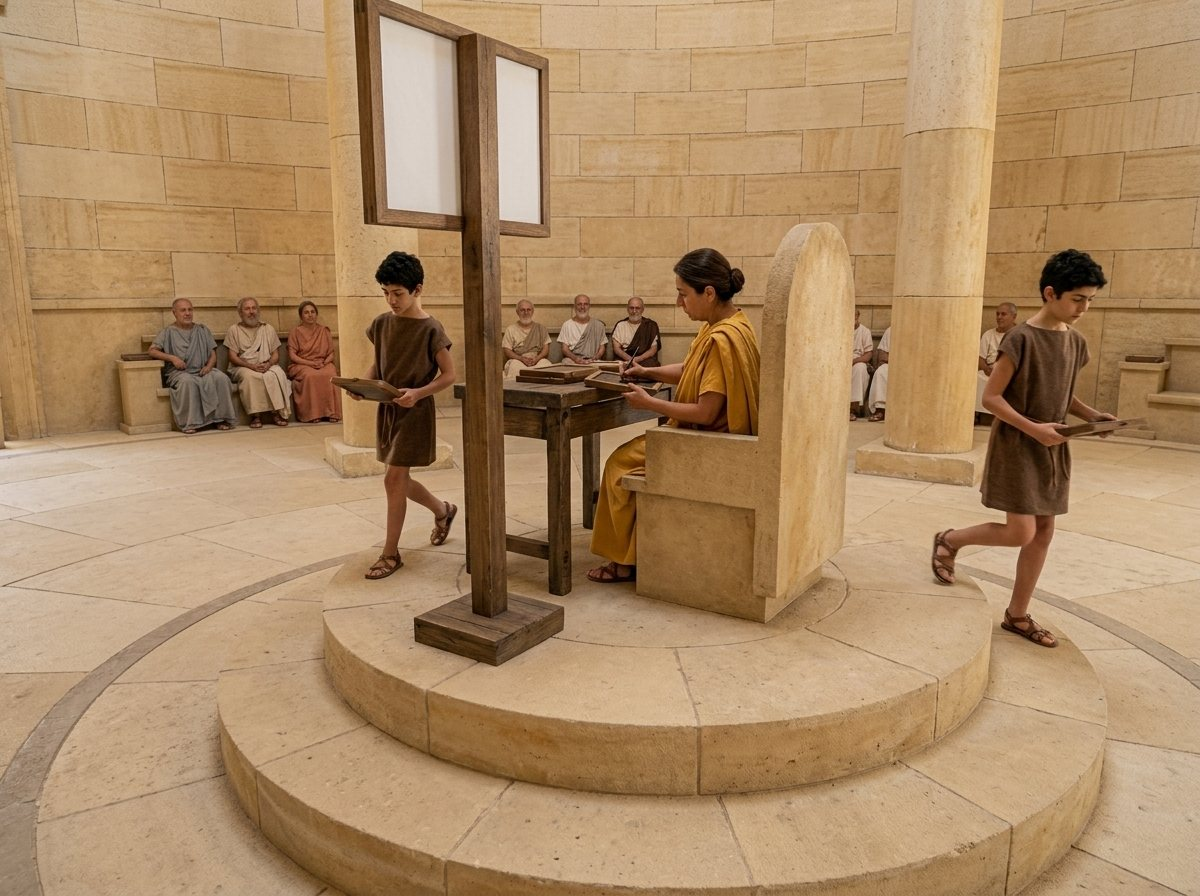
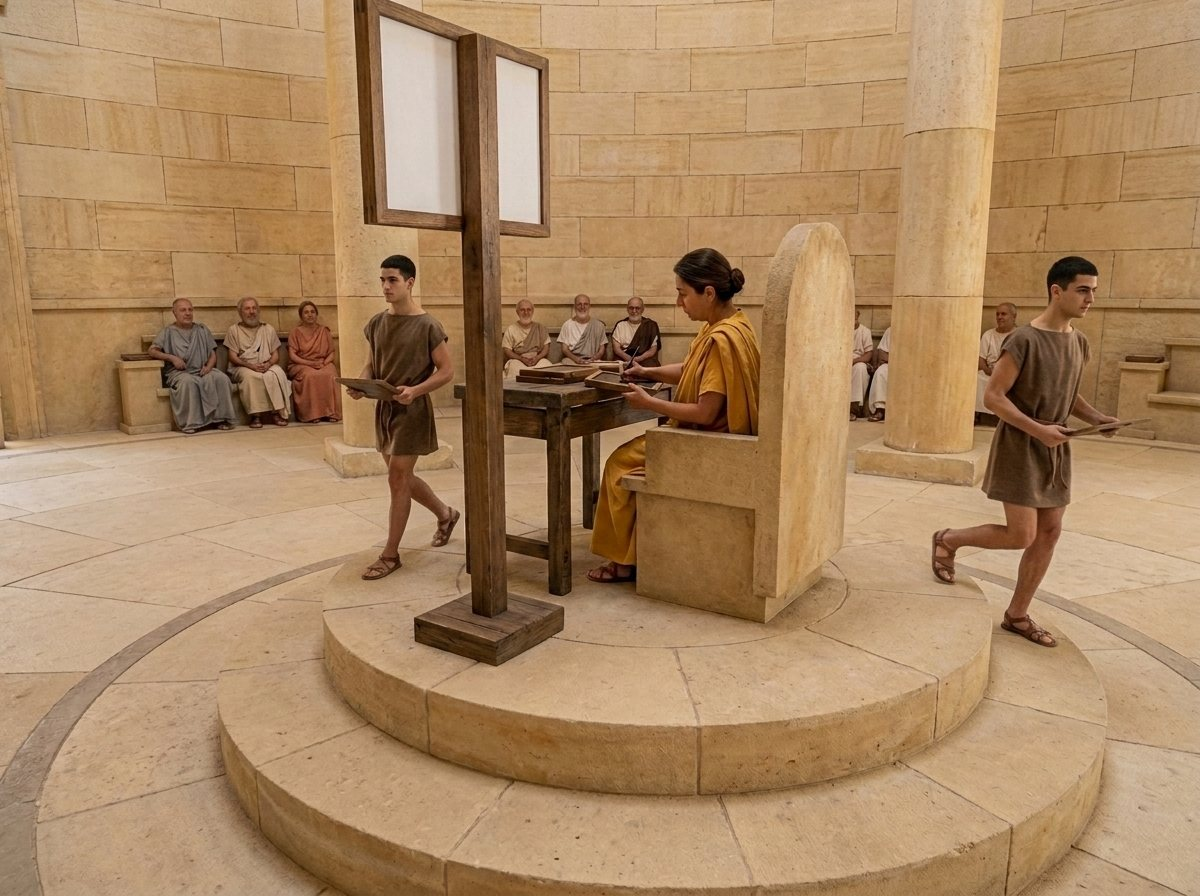
Schedia's runners are young men, not boys: the reference sheet, the four runner pictures of One Leader at a Time, and the wording in the settings, reality checks, place page, prompts and alt texts
Claude-Session: https://claude.ai/code/session_01YEoRcgSgrPNbMAvnxGtMh5

Changed region(s): [[0.7708, 0.2812, 0.9558, 0.6875], [0.2775, 0.2812, 0.4008, 0.6562], [0.8633, 0.6875, 0.8942, 0.7188]]

diff --git a/books/one-leader-at-a-time/index.html b/books/one-leader-at-a-time/index.html
@@ -326,7 +326,7 @@ table.terms2 td:first-child{width:40%;font-weight:700}
     </div>
     <div class="pop" data-auto>
       <div class="leaf">
-        <div class="photo tilt-r" data-depth="14"><img src="img/cover.jpg" alt="Inside the Tholos of Schedia: a figure in saffron sits at the desk on the round podium beside a board on its post, two runner boys set off across the floor, and benches line the wall either side of the one door, open to the bay"></div>
+        <div class="photo tilt-r" data-depth="14"><img src="img/cover.jpg" alt="Inside the Tholos of Schedia: a figure in saffron sits at the desk on the round podium beside a board on its post, two young runners set off across the floor, and benches line the wall either side of the one door, open to the bay"></div>
         <div class="fold-shadow"></div>
       </div>
     </div>
@@ -408,7 +408,7 @@ table.terms2 td:first-child{width:40%;font-weight:700}
         <p class="lede">The podium stands at the centre of the Tholos, and one legislator at a time holds it: the <b>holder</b>. Only the holder adds lines to the law.</p>
         <p>The podium is no pulpit. Nobody can be heard from it either. It is an office: the holder writes each line at the desk, gives it the next number, and has it carried to every bench. The others copy what the holder sends them, and do nothing else with the law.</p>
       </div>
-      <div class="pop fromright"><div class="leaf"><div class="photo tilt-r" style="aspect-ratio:4/3"><img src="img/o02-podium.jpg" alt="At the podium a figure in saffron writes at the desk beside a board on its post while two runner boys set off in different directions towards benches where council members wait" loading="lazy"></div></div></div>
+      <div class="pop fromright"><div class="leaf"><div class="photo tilt-r" style="aspect-ratio:4/3"><img src="img/o02-podium.jpg" alt="At the podium a figure in saffron writes at the desk beside a board on its post while two young runners set off in different directions towards benches where council members wait" loading="lazy"></div></div></div>
     </div>
     <div class="cards3">
       <div class="pop"><div class="leaf paper card3"><div class="body"><div class="num">The podium's work</div><h3>Writing</h3><p>The holder numbers each line in turn and gives it to the runners.</p></div></div></div>
@@ -491,7 +491,7 @@ table.terms2 td:first-child{width:40%;font-weight:700}
         <p>A legislator who stops hearing from someone, or hears again from someone who was away, or has just come back from home, calls for a new board. Whoever does so is the <b>caller</b>. A silent legislator may have gone home, or stepped out, or their notes may be slow. The caller cannot tell, and does not need to: a board is called either way.</p>
         <p>The caller takes a count higher than any board they have seen, adds their own name, and sends every legislator an <b>invitation</b>. A legislator invited to a board higher than any they have seen accepts, stops working under the old board, and answers in one of two ways.</p>
       </div>
-      <div class="pop fromright"><div class="leaf"><div class="photo tilt-r" style="aspect-ratio:4/3"><img src="img/o03-caller.jpg" alt="A figure in green sits writing on small wax tablets with a blank board propped beside him and two runner boys waiting; across the floor the podium's seat and desk stand empty" loading="lazy"></div></div></div>
+      <div class="pop fromright"><div class="leaf"><div class="photo tilt-r" style="aspect-ratio:4/3"><img src="img/o03-caller.jpg" alt="A figure in green sits writing on small wax tablets with a blank board propped beside him and two young runners waiting; across the floor the podium's seat and desk stand empty" loading="lazy"></div></div></div>
     </div>
     <div class="cards3" style="grid-template-columns:repeat(2,minmax(0,1fr));max-width:760px">
       <div class="pop"><div class="leaf paper card3"><div class="body"><div class="num">The two answers</div><h3>With tablets</h3><p><i>I hold up to board 6, line 40</i>, and whether they held the podium under board 6.</p></div></div></div>
@@ -598,7 +598,7 @@ table.terms2 td:first-child{width:40%;font-weight:700}
   <svg class="tear" viewBox="0 0 1200 26" preserveAspectRatio="none" style="--prev:#f6eed6"><path d="M0 0h1200v9l-60 9-80-9-70 10-100-9-90 11-80-10-110 9-100-8-80 10-90-9-90 11z"/></svg>
   <div class="wrap">
     <div class="two" style="gap:clamp(20px,4vw,50px);align-items:center">
-      <div class="pop fromleft"><div class="leaf"><div class="photo tilt-l" style="aspect-ratio:4/3"><img src="img/o04-porch.jpg" alt="In the Tholos's porch a figure in blue-grey at a small stand hands a wax tablet to a runner boy; through the doorway beyond, a figure in saffron sits at the podium's desk with a board on its post" loading="lazy"></div></div></div>
+      <div class="pop fromleft"><div class="leaf"><div class="photo tilt-l" style="aspect-ratio:4/3"><img src="img/o04-porch.jpg" alt="In the Tholos's porch a figure in blue-grey at a small stand hands a wax tablet to a young runner; through the doorway beyond, a figure in saffron sits at the podium's desk with a board on its post" loading="lazy"></div></div></div>
       <div>
         <div class="kicker">Two who believe they hold the podium</div>
         <h2>The holder who has not noticed</h2>

diff --git a/places/schedia/index.html b/places/schedia/index.html
@@ -166,7 +166,7 @@
         <tr><td><i>Building.</i> <span class="term">the Tholos, a round hall with a podium</span></td><td>The Athenian Tholos housed the committee on duty, with one member presiding for a day and a night chosen by lot (Aristotle, Constitution of Athens 44). The podium is the setting's version of that president's place; the real president was chosen by lot, not by a numbered board.</td><td class="c">Close</td></tr>
         <tr><td><i>Character.</i> <span class="term">a council of five, a majority of three</span></td><td>Sparta had five ephors, elected each year†. Councils and colleges of other sizes were common.</td><td class="c">Loose</td></tr>
         <tr><td><i>Character.</i> <span class="term">the five told apart by colour; plain Greek names for the seats</span></td><td>Kleon, Theron and Melissa are ordinary Greek names (Kleon was an Athenian politician, Theron a tyrant of Akragas)†. Colours only tell the figures apart.</td><td class="c">Close</td></tr>
-        <tr><td><i>Character.</i> <span class="term">boys who run the lines from the podium</span></td><td>Heralds and runners again†.</td><td class="c">Close</td></tr>
+        <tr><td><i>Character.</i> <span class="term">young men who run the lines from the podium</span></td><td>Heralds and runners again†.</td><td class="c">Close</td></tr>
         <tr><td><i>Prop.</i> <span class="term">wax tablets smoothed when their holder goes home</span></td><td>Wax tablets were the Greek notebook; the stylus's flat end smooths them. Plato uses a wax block as his image of memory (Theaetetus 191c–d)†.</td><td class="c">Close</td></tr>
         <tr><td><i>Prop.</i> <span class="term">a bench's name cut into its stone</span></td><td>Seats in the Theatre of Dionysus at Athens were inscribed with the names of the priests and officials who held them†.</td><td class="c">Close</td></tr>
         <tr><td><i>Practice.</i> <span class="term">a higher board raised when the podium falls silent</span></td><td>Athens renewed its presidency daily by lot. A new holder taking a higher board number is the setting's rule, not a Greek one.</td><td class="c">Invented</td></tr>

diff --git a/art/world-prompt.md b/art/world-prompt.md
@@ -493,7 +493,7 @@ Defaults for the 3D phase, taken from `hellenistic-reference.html` (its *Modelli
 
 ### 3.5 Paxos cast: dress
 
-The ring road's rule holds: every garment is one loom-woven rectangle, pinned or belted, never tailored, with no set-in sleeves, sewn collars, buckles or stitched bags. The reference sheet is `art/refs/paxos-sheet.png`, cut into `art/refs/paxos/`; the Schedia council and its runner boys are on `art/refs/schedia-sheet.png` and `art/refs/schedia2-sheet.png`.
+The ring road's rule holds: every garment is one loom-woven rectangle, pinned or belted, never tailored, with no set-in sleeves, sewn collars, buckles or stitched bags. The reference sheet is `art/refs/paxos-sheet.png`, cut into `art/refs/paxos/`; the Schedia council and its runners are on `art/refs/schedia-sheet.png` and `art/refs/schedia2-sheet.png`.
 
 | Who | Dress |
 |---|---|

diff --git a/settings.md b/settings.md
@@ -318,7 +318,7 @@ what makes that safe.
 **The council.** Five legislators: Okios and Liskovia (Oki and Liskov), and Kleon, Melissa and
 Theron, ordinary names for seats no author fills. A majority is three, so a law passes when the
 holder and two others hold its line. They are told apart by colour: Okios blue-grey, Liskovia
-saffron, Kleon green, Melissa madder red, Theron grey. The podium's runners are boys in short
+saffron, Kleon green, Melissa madder red, Theron grey. The podium's runners are young men in short
 brown tunics, one to each bench, who carry the lines in order and never skip one. Citizens
 petition the podium only; a petition that reaches a bench comes back with the holder's name.
 The Tholos set seats more than five (twelve benches); the book is right and the set may be

diff --git a/reality.md b/reality.md
@@ -182,7 +182,7 @@ What each place, building, character, prop and practice of the setting has in co
 |---|---|---|
 | a council of five, a majority of three | Sparta had five ephors, elected each year†. Councils and colleges of other sizes were common. | Loose |
 | the five told apart by colour; plain Greek names for the seats | Kleon, Theron and Melissa are ordinary Greek names (Kleon was an Athenian politician, Theron a tyrant of Akragas)†. Colours only tell the figures apart. | Close |
-| boys who run the lines from the podium | Heralds and runners again†. | Close |
+| young men who run the lines from the podium | Heralds and runners again†. | Close |
 
 ### Props
 
